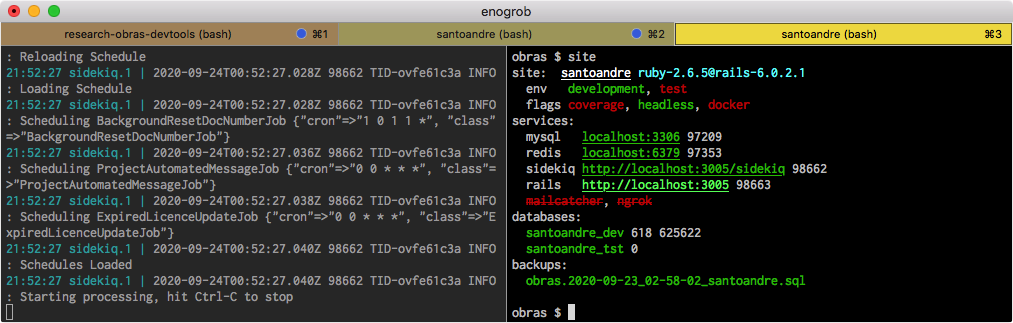
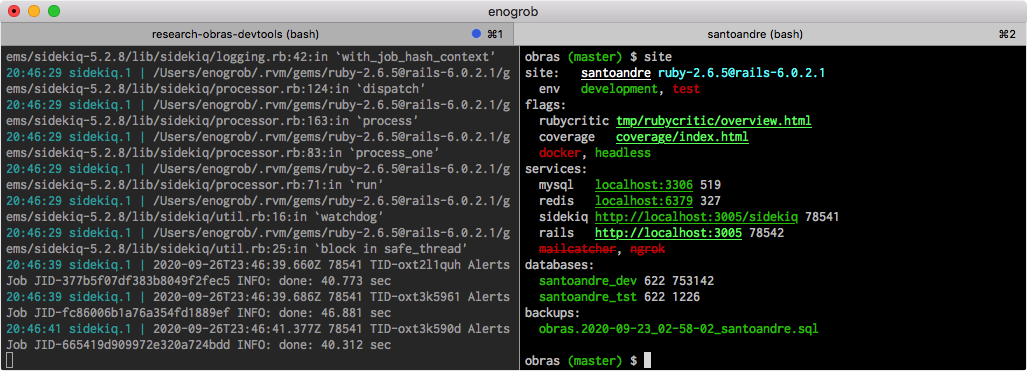
improve-flags-print-ups

diff --git a/README.md b/README.md
@@ -124,7 +124,7 @@ $ fobras_utils update
 $ site --help
 
 Crafted (c) 2013~2020 by InMov - Intelligence in Movement
-Obras Utils 1.4.91
+Obras Utils 1.4.92
 ::
 site[sitename || flags || set/unset flag|| env development/test]
 site[check/ls || start/stop [sitename/all] || console || test/test:system || rspec]
@@ -133,7 +133,7 @@ site[db/mysql/redis conn/connect]
 
 $ site db --help
 Crafted (c) 2013~2020 by InMov - Intelligence in Movement
-Obras Utils 1.4.91
+Obras Utils 1.4.92
 ::
 db[set sitename || ls || init || preptest || drop [all] || create || migrate || seed]
 db[backups || download [filenumber] || import [backupfile] || update [all]]
@@ -142,7 +142,7 @@ db[api [dump/export || import]]
 
 $ site services --help
 Crafted (c) 2013~2020 by InMov - Intelligence in Movement
-Obras Utils 1.4.91
+Obras Utils 1.4.92
 ::
 services[ls/check]
 services[start/stop/restart/status mysql/ngrok/redis/sidekiq/mailcatcher || all]
@@ -153,7 +153,7 @@ obs:redis and mysql are not involved when all is specified
 
 $ obras_utils --help
 Crafted (c) 2013~2020 by InMov - Intelligence in Movement
-Obras Utils 1.4.91
+Obras Utils 1.4.92
 ::
 obras_utils[version/update/check]
 ```
@@ -162,6 +162,7 @@ obras_utils[version/update/check]
 
 Changes log
 
+* **1.4.92** Improve `flags.print_ups` in flags.
 * **1.4.91** Integrate `tmp/rubycritic/overview.html` in flags.
 * **1.4.90** Integrate `coverage/index.html` in flags.
 * **1.4.89** Improve "Improve `install.sh` and `obras_utils update`."
@@ -198,8 +199,8 @@ Changes log
 
 Changes Required
 
-* **1.4.92** Improve `backups` management.
-* **1.4.93** Integrate `MetricFu` and `Attractor`.
-* **1.4.94** Improve `sites` management.
-* **1.4.95** Review `Docker` for the latest changes.
+* **1.4.93** Improve `backups` management.
+* **1.4.94** Integrate `MetricFu` and `Attractor`.
+* **1.4.95** Improve `sites` management.
+* **1.4.96** Review `Docker` for the latest changes.
 
